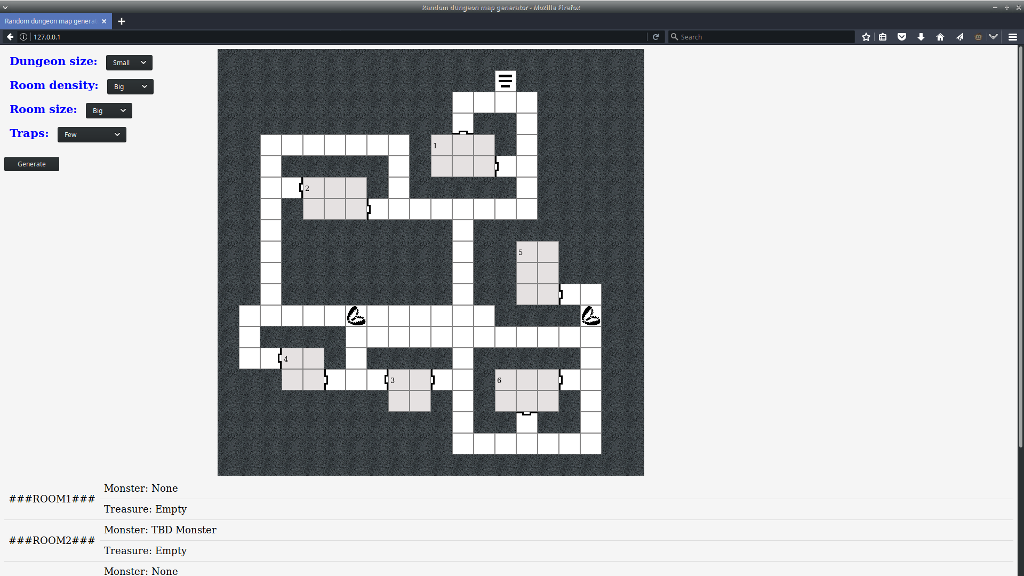
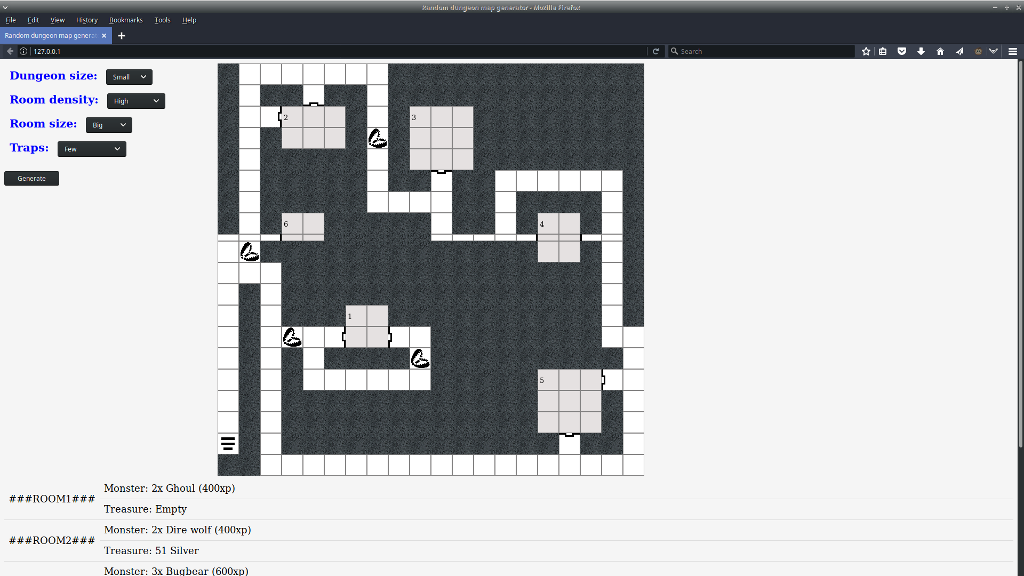
add util.js + modify roomDescription + update screenshot

Changed region(s): [[0.0, 0.0, 1.0, 0.8438], [0.125, 0.9062, 0.25, 1.0], [0.1562, 0.8438, 0.2188, 0.875]]

diff --git a/src/dungeon.js b/src/dungeon.js
@@ -206,12 +206,6 @@ function generateRoom(tiles, roomNumber, roomSize, roomDescription) {
     return tiles;
 }
 
-function getRandomInt(min, max) {
-    min = Math.ceil(min);
-    max = Math.floor(max);
-    return Math.floor(Math.random() * (max - min)) + min;
-}
-
 function checkTileGoodForRoom(tiles, x, y, right, down) {
     var maxX = x + down + 2; // +2 because of the edges
     var maxY = y + right + 2;
@@ -266,32 +260,10 @@ function fillRoom(tiles, x, y, right, down, roomDescription) { // x-y is the top
             tiles[x + i][y + j].RoomCount = " ";
         }
     }
-    roomDescription[roomDescription.length] = { Name: getRoomName(roomDescription.length + 1), Treasure: getTreasure(), Monster: getMonster() };
+    roomDescription[roomDescription.length] = { Name: getRoomName(roomDescription.length + 1), Treasure: getData(40, false), Monster: getData(50, true) };
     tiles[x][y].RoomCount = roomDescription.length;
     for (var d = 0; d < doorCount; d++) {
         addDoor(tiles, x, y, down, right);
-    }
-}
-
-function getRoomName(x) {
-    return "###ROOM" + x + "###";
-}
-
-function getMonster() {
-    if (Math.floor(Math.random() * 100) < 50) {
-        return "Monster: TBD Monster";     
-    }
-    else {
-        return "Monster: None";
-    }
-}
-
-function getTreasure() {
-    if (Math.floor(Math.random() * 100) < 40) {
-        return "Treasure: TBD Treasure";     
-    }
-    else {
-        return "Treasure: Empty";
     }
 }
 
@@ -405,10 +377,6 @@ function checkG(tiles, node, x, y, openList) {
     if (openList.contains(tiles[x][y]) && tiles[x][y].G > (node.G + MOVEMENT)) {
         setParent(tiles, node, x, y);
     }
-}
-
-function manhattan(dx, dy) {
-    return (dx + dy);
 }
 
 function removeFromOpen(openList, node) {

diff --git a/src/util.js b/src/util.js
@@ -1,0 +1,52 @@
+function getRandomInt(min, max) {
+    min = Math.ceil(min);
+    max = Math.floor(max);
+    return Math.floor(Math.random() * (max - min)) + min;
+}
+
+function manhattan(dx, dy) {
+    return (dx + dy);
+}
+
+function getRoomName(x) {
+    return "###ROOM" + x + "###";
+}
+
+function getData(percentage,isMonster) {
+    var json  = getJSON();
+    if (Math.floor(Math.random() * 100) < percentage) {
+        if (isMonster) {
+            var m = getRandomInt(0, json.monsters.length);
+            var count = getRandomInt(1, 4);
+            return "Monster: " + count + "x " + json.monsters[m].name + " (" + json.monsters[m].XP * count + "xp)";    
+        }
+        else {
+            var t = getRandomInt(0, json.treasures.length);
+            var price = getRandomInt(10, 100);
+            return "Treasure: " + price + " " + json.treasures[t].name;
+        }
+    }
+    else {
+        if (isMonster) {
+            return "Monster: None";          
+        }
+        else {
+            return "Treasure: Empty";
+        }
+    }
+}
+
+function getJSON() {
+    var data = '{"monsters":[' +
+        '{"name":"Bugbear","challange":1,"size":"Medium","XP":200 },' +
+        '{"name":"Ghoul","challange":1,"size":"Medium","XP":200 },' +
+        '{"name":"Dire wolf","challange":1,"size":"Medium","XP":200 }' +
+        '],' +
+        '"treasures":[' +
+        '{ "name":"Gold" },' +
+        '{ "name":"Silver" },' +
+        '{ "name":"Bronze" } ' +
+        ']' +
+        '}';
+    return JSON.parse(data);
+}

diff --git a/index.html b/index.html
@@ -1,12 +1,13 @@
 <!DOCTYPE html>
 <html>
 <head>
+<script type="text/javascript" src="src/util.js" async></script> 
+<script type="text/javascript" src="src/dungeon.js" async></script> 
 <meta charset="UTF-8">
  <link rel="stylesheet" href="styles.css">
 <title>Random dungeon map generator</title>
 </head>
 <body>
-<script src="src/dungeon.js"></script> 
 <div class="settings">
 <h3>Dungeon size:</h3>
 <select id="dungeonSize">
@@ -17,9 +18,9 @@
 <br> 
 <h3>Room density:</h3>
 <select id="roomDensity">
-  <option value="10">Small</option>
+  <option value="10">Low/option>
   <option value="20">Medium</option>
-  <option value="30" selected="selected">Big</option>
+  <option value="30" selected="selected">High</option>
 </select>
 <br>
 <h3>Room size:</h3>
